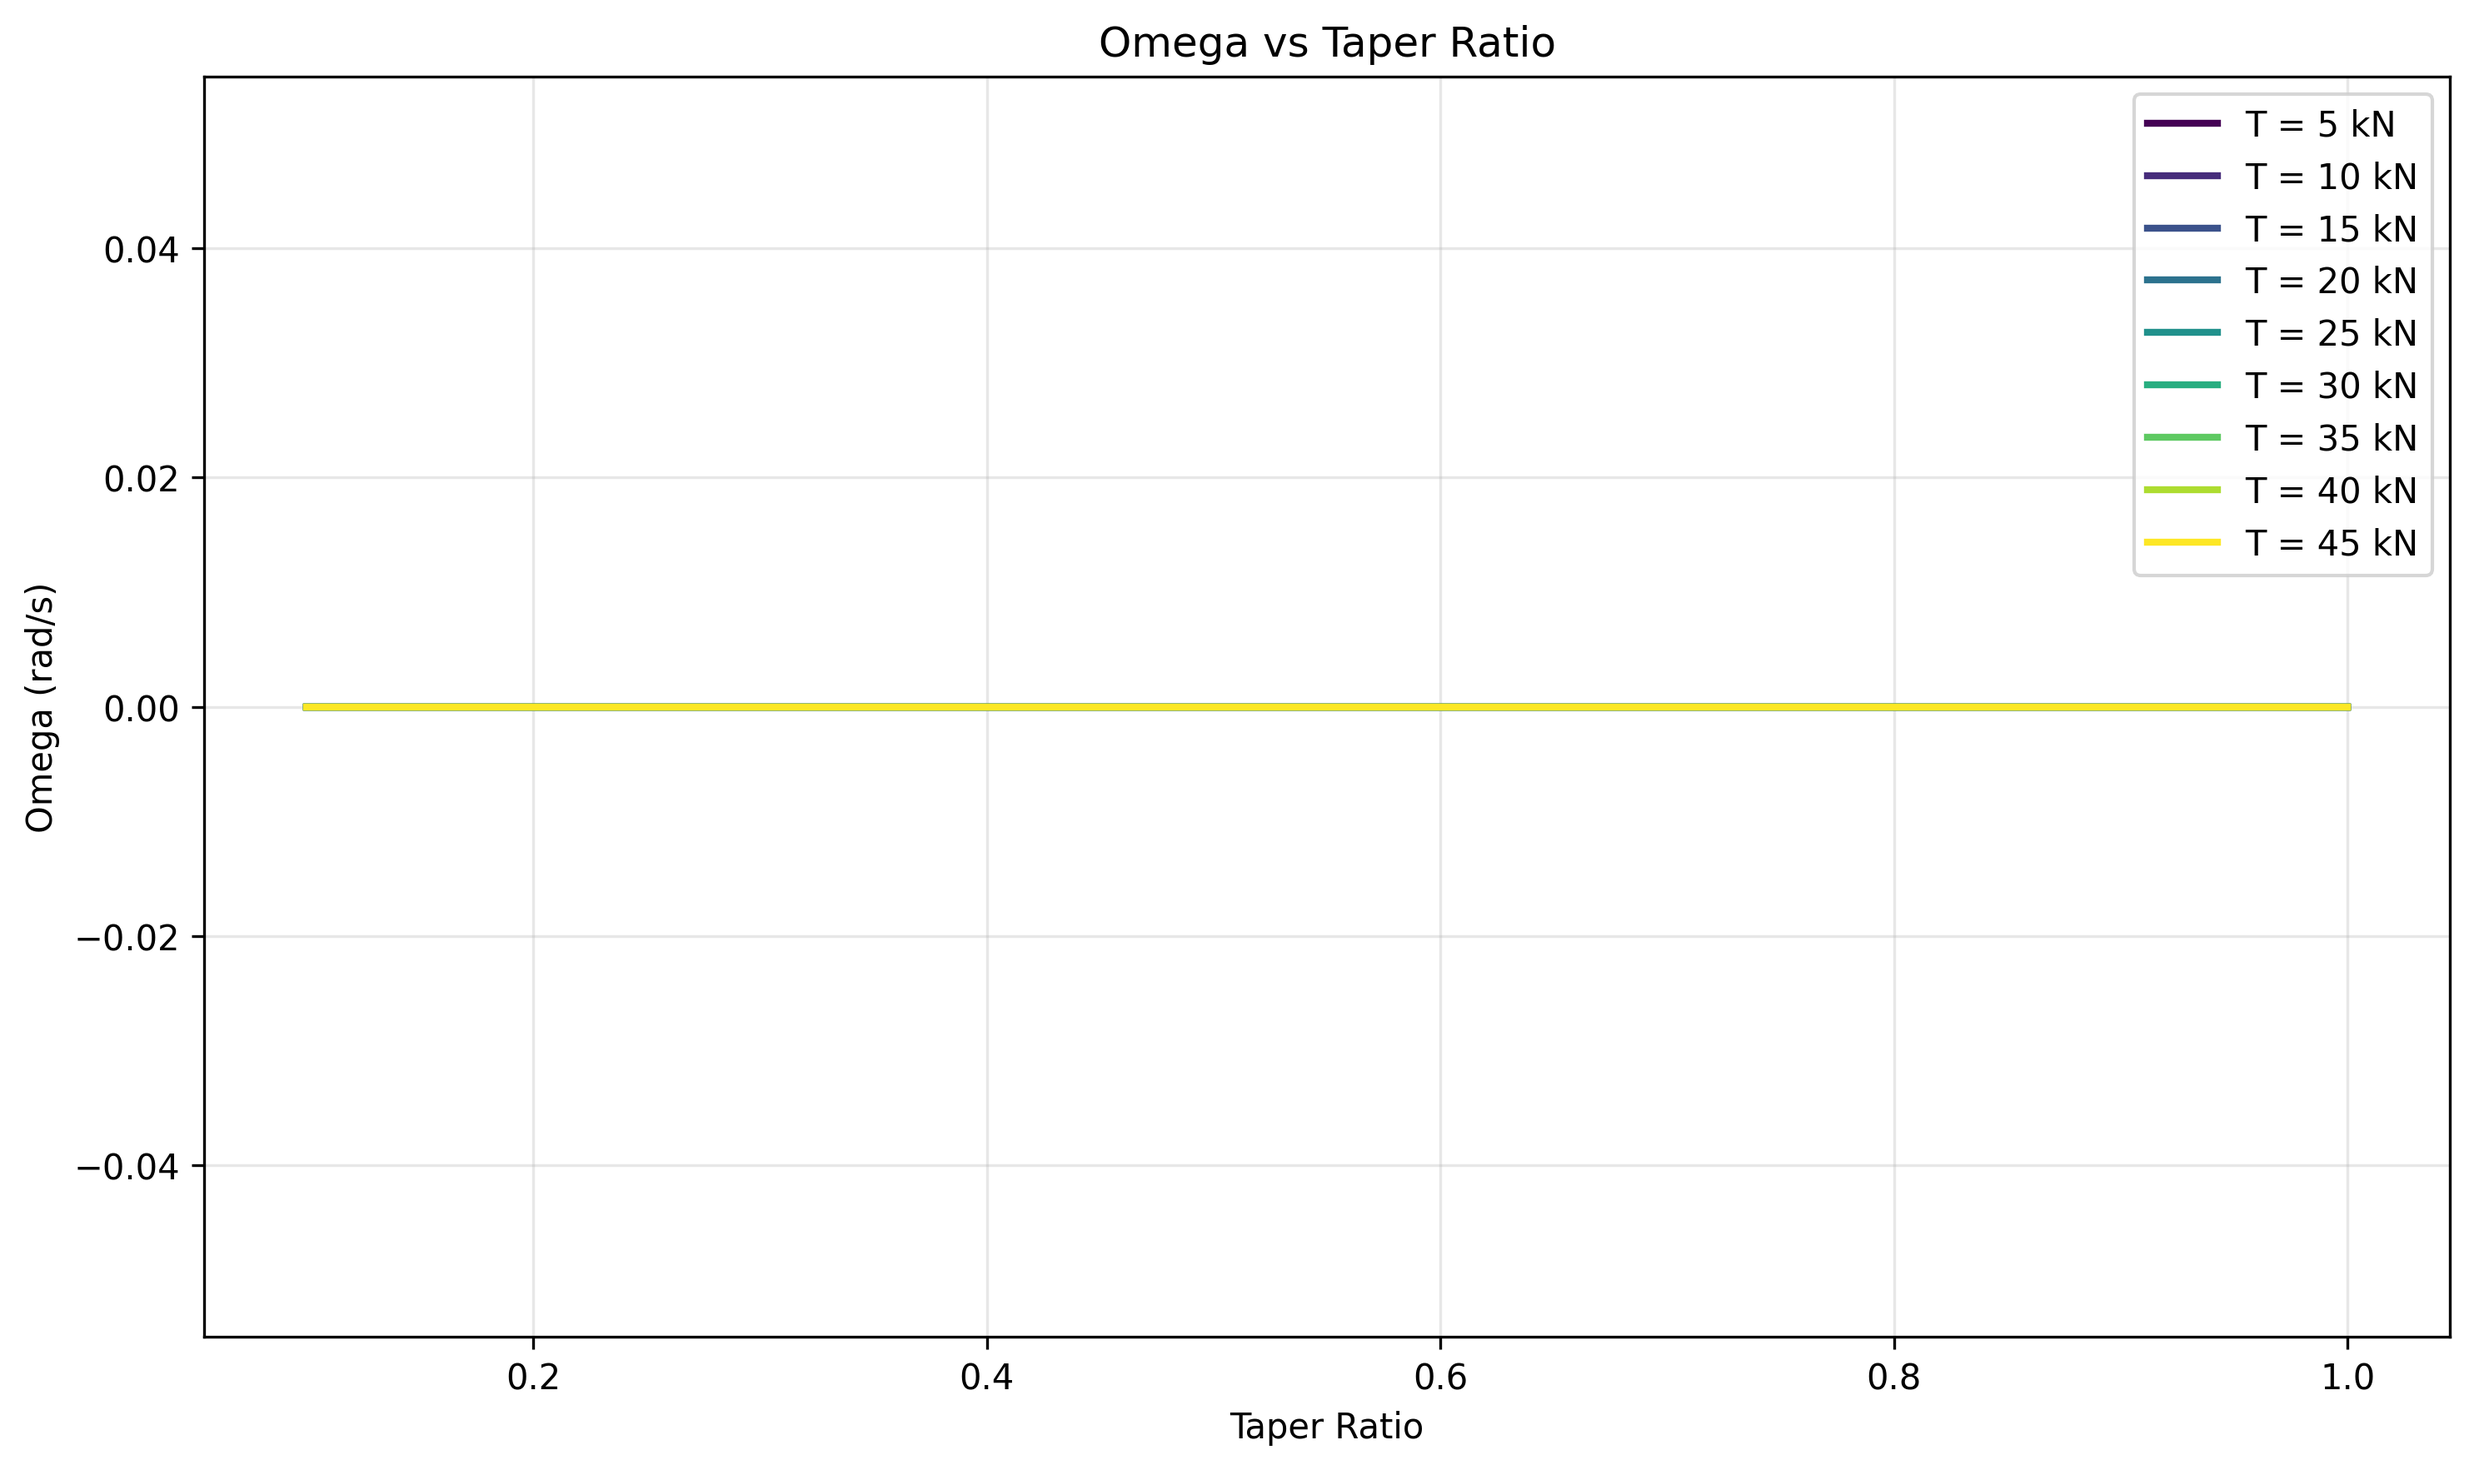
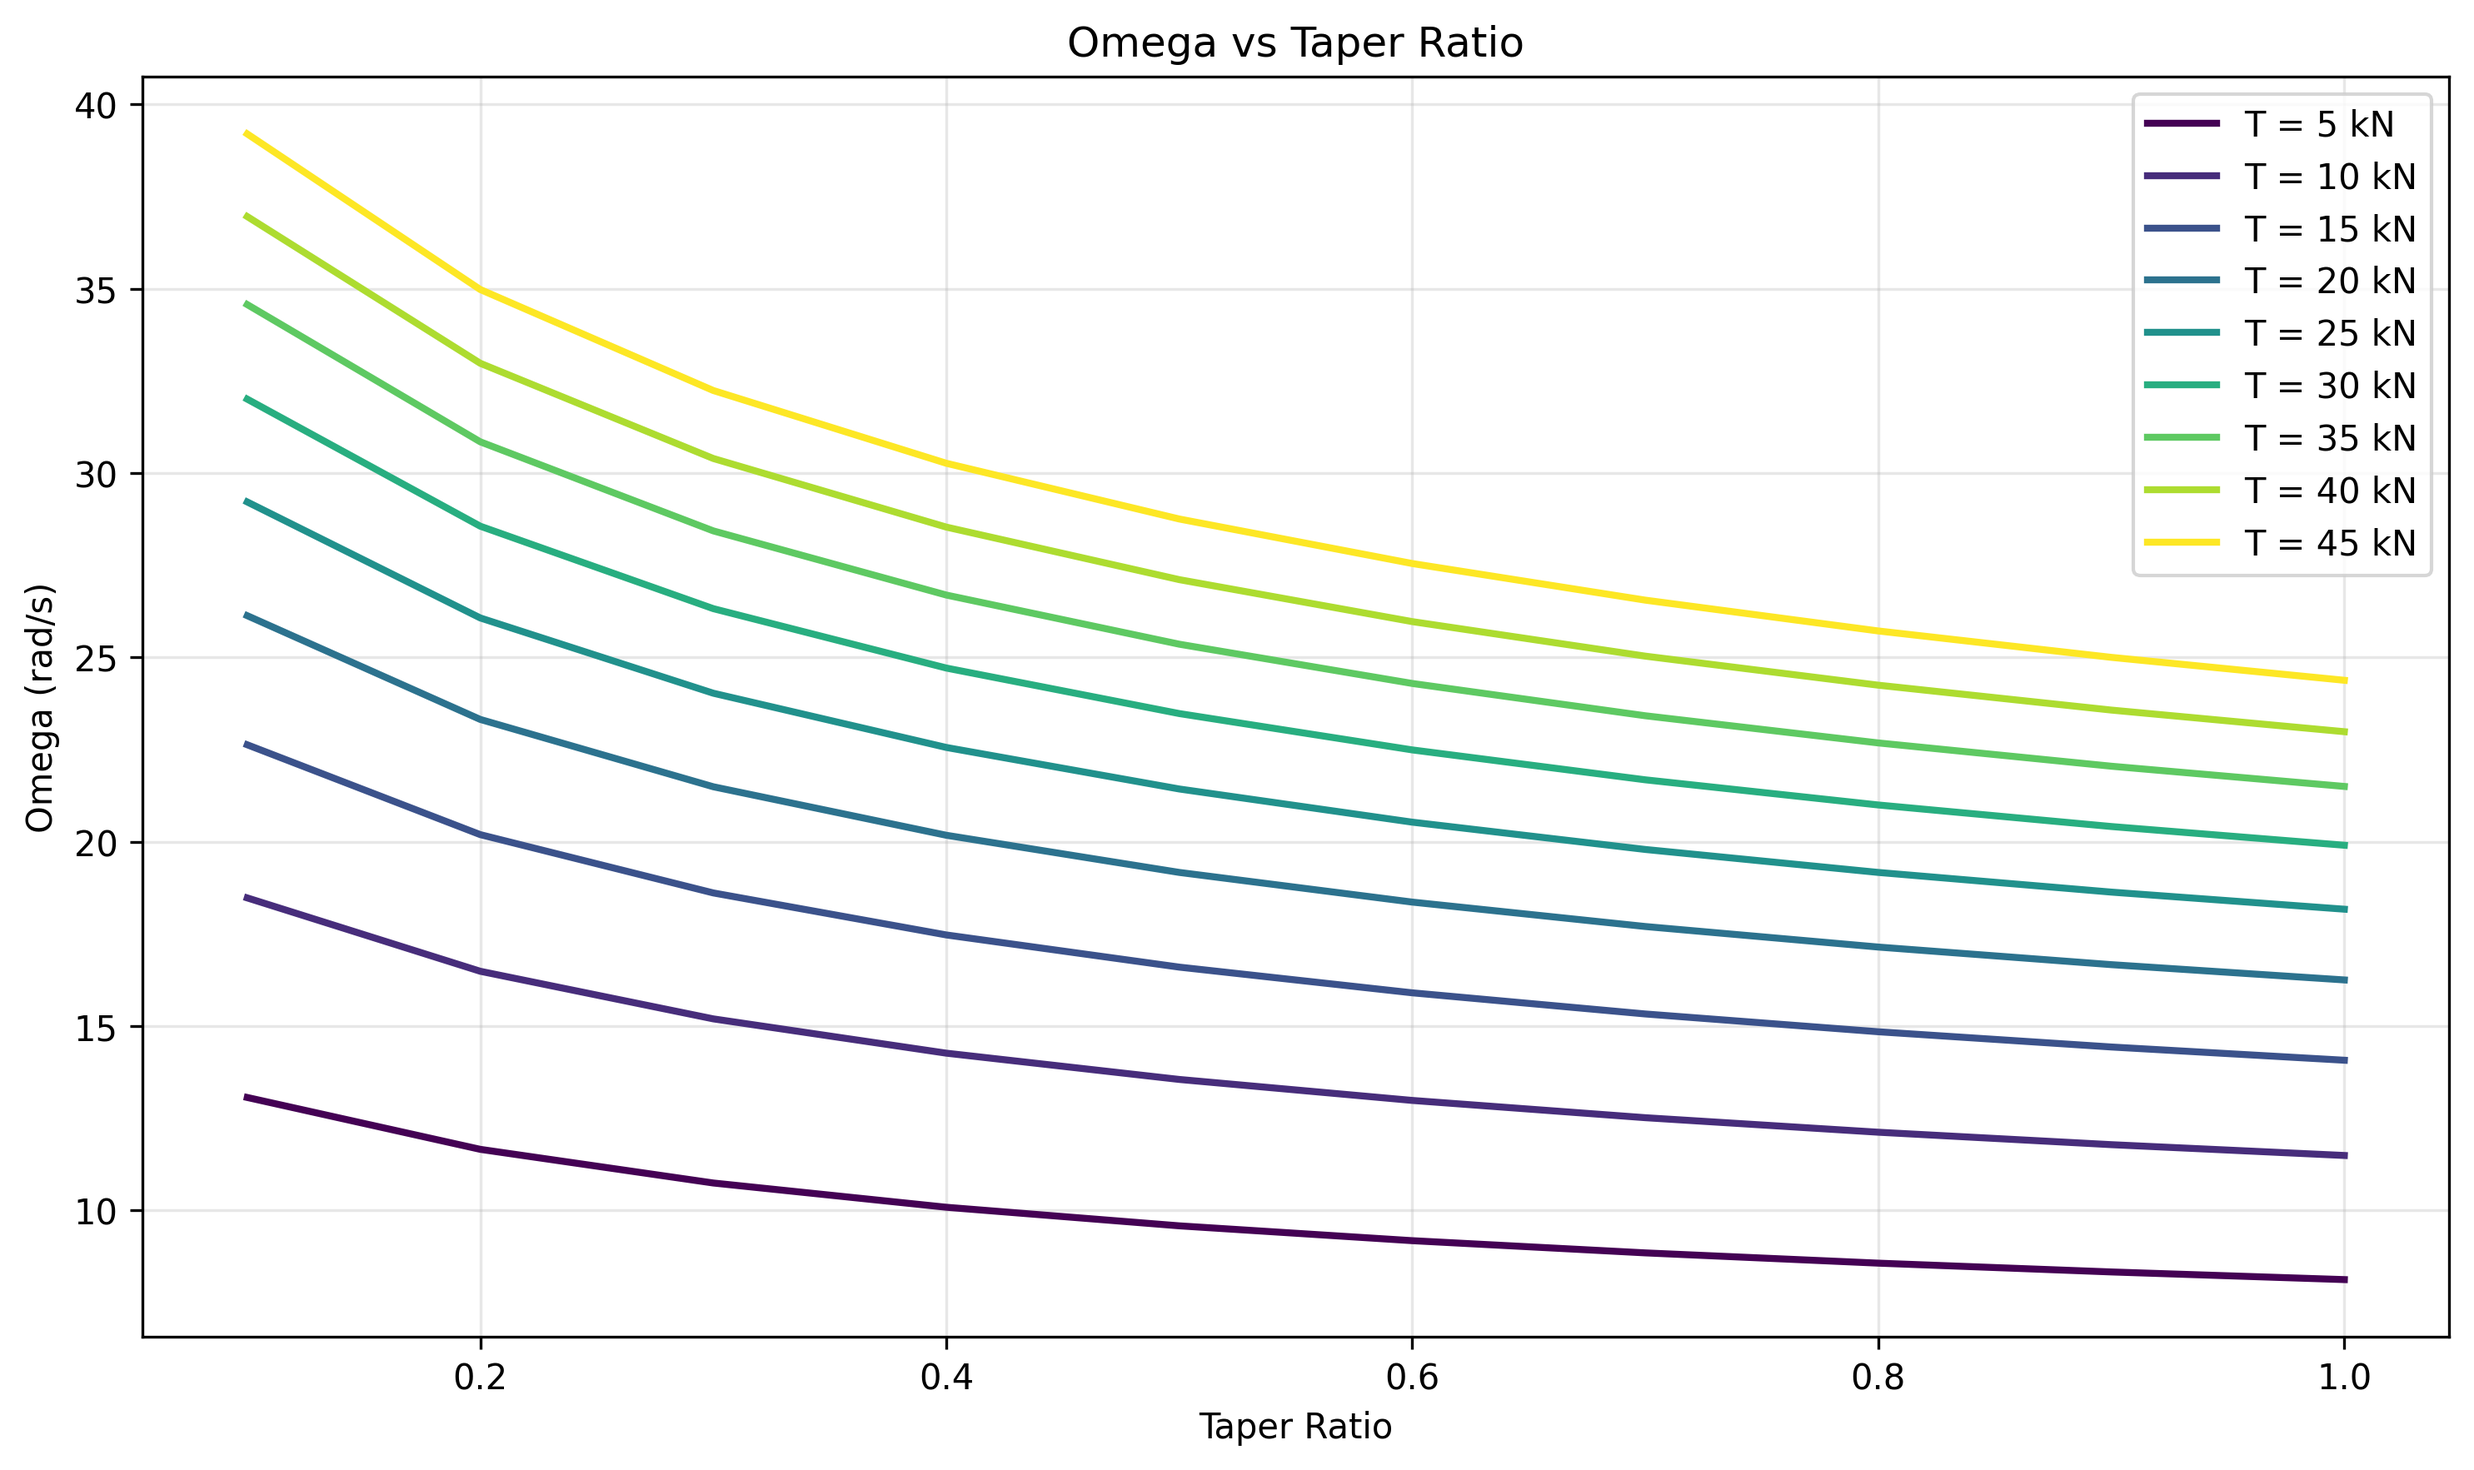
Plotting functions furtehr progress. Taper and twist done

diff --git a/self_plotting.py b/self_plotting.py
@@ -60,7 +60,7 @@ def plot_quantities_vs_omega():
 
     colors = plt.cm.viridis(np.linspace(0, 1, len(vertical_velocities)))
     
-    # Calculate data once for all plots
+    
     data = {}
     for idx, v in enumerate(vertical_velocities):
         thrusts = []
@@ -120,9 +120,10 @@ def plot_quantities_vs_omega():
     plt.grid(True, alpha=0.3)
     plt.tight_layout()
     plt.savefig('torque_vs_omega.png', dpi=300, bbox_inches='tight')
+    reset_rotor()
     plt.show()
 
-plot_quantities_vs_omega()
+# plot_quantities_vs_omega()
 
 
 def plot_quantities_vs_taper_ratio():
@@ -146,11 +147,12 @@ def plot_quantities_vs_taper_ratio():
             rotor.tip_chord = rotor.root_chord * taper_ratio
             try:
                 omega = rotor.find_omega_needed_uncoupled(vertical_velocity=0, altitude=altitude, thrust_needed=thrust_target, initial_guess=30.0)
-                values = rotor.calculate_performance(vertical_velocity=0, omega=omega, density=density)
+                values = rotor.calculate_performance(climb_velocity=0, omega=omega, density=density)
                 powers.append(values['power'] / 1000)
                 torques.append(values['torque'])
                 omegas_found.append(omega)
-            except:
+            except Exception as e:
+                print("There was an error:", e)
                 powers.append(0)
                 torques.append(0)
                 omegas_found.append(0)
@@ -194,6 +196,89 @@ def plot_quantities_vs_taper_ratio():
     plt.grid(True, alpha=0.3)
     plt.tight_layout()
     plt.savefig('torque_vs_taper_ratio.png', dpi=300, bbox_inches='tight')
+    reset_rotor()
     plt.show()
 
-plot_quantities_vs_taper_ratio()
+
+# plot_quantities_vs_taper_ratio()
+
+
+
+
+def plot_quantities_vs_twist():
+    altitude = 2000
+    temperature = env.get_temperature(altitude)
+    pressure = env.get_pressure(temperature, altitude)
+    density = env.get_density(temperature, pressure)
+    
+    twist_values = [0.03*i for i in range(0, 21)]
+    vertical_velocities = [10*i for i in range(10)]
+    omega_fixed = 30.0
+    
+    colors = plt.cm.viridis(np.linspace(0, 1, len(vertical_velocities)))
+    
+    data = {}
+    for idx, v in enumerate(vertical_velocities):
+        thrusts = []
+        powers = []
+        torques = []
+        
+        for twist in twist_values:
+            rotor.root_pitch = np.deg2rad(5.0)
+            rotor.slope_pitch = twist
+            try:
+                values = rotor.calculate_performance(v, omega=omega_fixed, density=density)
+                thrusts.append(values['thrust'])
+                powers.append(values['power'] / 1000)
+                torques.append(values['torque'])
+            except:
+                thrusts.append(0)
+                powers.append(0)
+                torques.append(0)
+        
+        data[v] = {'thrust': thrusts, 'power': powers, 'torque': torques}
+    
+    plt.figure(figsize=(10, 6))
+    for idx, v in enumerate(vertical_velocities):
+        plt.plot(twist_values, data[v]['thrust'], color=colors[idx], linewidth=2, label=f'v = {v} m/s')
+    
+    plt.title('Thrust vs Twist')
+    plt.xlabel('Twist (slope_pitch)')
+    plt.ylabel('Thrust (N)')
+    plt.legend()
+    plt.grid(True, alpha=0.3)
+    plt.tight_layout()
+    plt.savefig('thrust_vs_twist.png', dpi=300, bbox_inches='tight')
+    plt.show()
+    
+    plt.figure(figsize=(10, 6))
+    for idx, v in enumerate(vertical_velocities):
+        plt.plot(twist_values, data[v]['power'], color=colors[idx], linewidth=2, label=f'v = {v} m/s')
+    
+    plt.title('Power vs Twist')
+    plt.xlabel('Twist (slope_pitch)')
+    plt.ylabel('Power (kW)')
+    plt.legend()
+    plt.grid(True, alpha=0.3)
+    plt.tight_layout()
+    plt.savefig('power_vs_twist.png', dpi=300, bbox_inches='tight')
+    plt.show()
+    
+    plt.figure(figsize=(10, 6))
+    for idx, v in enumerate(vertical_velocities):
+        plt.plot(twist_values, data[v]['torque'], color=colors[idx], linewidth=2, label=f'v = {v} m/s')
+    
+    plt.title('Torque vs Twist')
+    plt.xlabel('Twist (slope_pitch)')
+    plt.ylabel('Torque (Nm)')
+    plt.legend()
+    plt.grid(True, alpha=0.3)
+    plt.tight_layout()
+    plt.savefig('torque_vs_twist.png', dpi=300, bbox_inches='tight')
+    plt.show()
+
+plot_quantities_vs_twist()
+
+
+
+# plot_quantities_vs_taper_ratio()

diff --git a/test_omega_finder.py b/test_omega_finder.py
@@ -17,7 +17,9 @@ def test_find_omega_needed_uncoupled():
         wind_velocity=0,
         ISA_OFFSET=0
     )
-    
+
+    temperature2000 = env.get_temperature(2000)
+    density2000 = env.get_density(temperature2000)
     # Create rotor with your parameters
     rotor = Rotor(environment=env)
     rotor.set_rotor_parameters(
@@ -41,8 +43,8 @@ def test_find_omega_needed_uncoupled():
     print()
     
     # Test different thrust targets
-    thrust_targets = [10000, 20000, 30000, 40000, 50000]  # N
     vertical_velocity = 0  # Hover condition
+    thrust_targets = [rotor.total_thrust(vertical_velocity, omega=i, density=density2000) for i in range(10, 101, 10)]  # N
     altitude = 2000  # m
     
     print("Test Results:")

diff --git a/heli.py b/heli.py
@@ -169,7 +169,7 @@ class Rotor:
             if F <= 1e-8:
                 F = 1e-8
             
-            # Update lambda_inflow using current F
+            
             new_lambda_inflow: float = (
                 np.sqrt(((sigma * a) / (16 * F) - (lambda_c / 2))**2
                         + (sigma * a) / (8 * F) * theta * (r_distance / self.radius_of_rotors))
